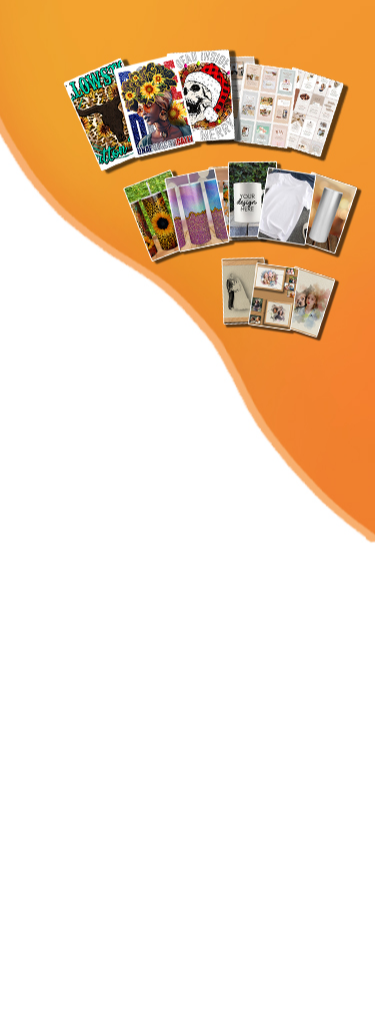
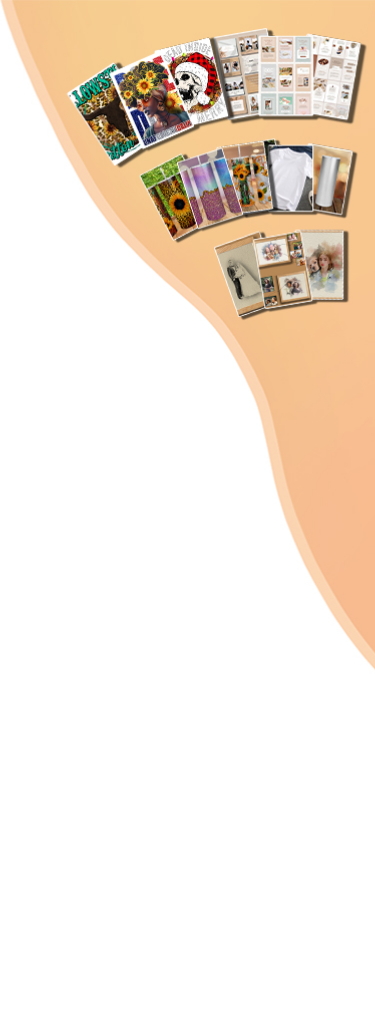
responsive form

diff --git a/src/components/common/RegisterForm.module.scss b/src/components/common/RegisterForm.module.scss
@@ -1,23 +1,38 @@
 @import "../../styles/mixin.scss";
 
-.form-container {
+.formContainer {
   display: flex;
   flex-direction: column;
   gap: 15px;
   width: 450px;
   text-align: center;
   color: var(--primary) !important;
-  transform: translateY(calc(50vh - 50% - 30px));
   margin-left: 15%;
 
-  .title {
-    font-size: 32px;
-    font-weight: 900;
-    color: var(--primary) !important;
+  .formHeader {
+    .avatar {
+      background-color: var(--primary);
+      width: 90px;
+      height: 90px;
+      min-width: 90px;
+      min-height: 90px;
+      border-radius: 50%;
+      margin: auto;
+      margin-bottom: 10px;
+      cursor: pointer;
+    }
+
+    .title {
+      font-size: 28px;
+      font-weight: 900;
+      color: var(--primary) !important;
+    }
   }
 
   input {
     color: var(--primary) !important;
+    background-color: var(--white);
+    border-radius: 10px;
     padding: 10px;
   }
 
@@ -36,7 +51,7 @@
     color: red;
   }
 
-  .submit-button {
+  .submitButton {
     color: white;
     background-color: var(--primary);
     border-radius: 10px;
@@ -60,7 +75,44 @@
 }
 
 @media screen and (max-width: 1700px) {
-  .form-container {
+  .formContainer {
     margin-left: 10%;
+  }
+}
+
+@include responsive(xl) {
+  .formContainer {
+    padding: 20px;
+    .formHeader {
+      .title {
+        font-size: 24px;
+      }
+    }
+  }
+}
+
+@include responsive(md) {
+  .formContainer {
+    .formHeader {
+      .avatar {
+        width: 70px;
+        height: 70px;
+        min-width: 70px;
+        min-height: 70px;
+      }
+      .title {
+        font-size: 20px;
+        background-color: var(--white);
+        display: inline-block;
+      }
+    }
+  }
+}
+
+@include responsive(sm) {
+  .formContainer {
+    margin-left: auto;
+    margin-right: auto;
+    width: 90%;
   }
 }

diff --git a/src/components/layout/LoginForm.module.scss b/src/components/layout/LoginForm.module.scss
@@ -1,4 +1,6 @@
-.form-container {
+@import "../../styles/mixin.scss";
+
+.formContainer {
   display: flex;
   flex-direction: column;
   gap: 15px;
@@ -9,7 +11,7 @@
   transform: translateY(calc(50vh - 50% - 50px));
 
   .title {
-    font-size: 32px;
+    font-size: 28px;
     font-weight: 900;
     color: var(--primary) !important;
   }
@@ -34,14 +36,13 @@
     color: red;
   }
 
-  .submit-button {
+  .submitButton {
     color: white;
     background-color: var(--primary);
     border-radius: 10px;
     height: 45px;
     font-size: 16px;
     font-weight: bold;
-    margin: 20px 0;
 
     &:hover {
       background-color: var(--primary);
@@ -55,5 +56,38 @@
       text-decoration: none;
       color: var(--primary);
     }
+  }
+}
+
+@media screen and (max-width: 1700px) {
+  .formContainer {
+    margin-left: 10%;
+  }
+}
+
+@include responsive(xl) {
+  .formContainer {
+    background-color: var(--white);
+    border-radius: 50px;
+    padding: 20px;
+    .title {
+      font-size: 24px;
+    }
+  }
+}
+
+@include responsive(md) {
+  .formContainer {
+    .title {
+      font-size: 20px;
+    }
+  }
+}
+
+@include responsive(sm) {
+  .formContainer {
+    margin-left: auto;
+    margin-right: auto;
+    width: 90%;
   }
 }

diff --git a/src/components/common/RegisterForm.tsx b/src/components/common/RegisterForm.tsx
@@ -64,12 +64,15 @@ const RegisterForm: React.FC<IRegisterForm> = ({ title }) => {
   return (
     <form
       onSubmit={formik.handleSubmit}
-      className={`${styles["form-container"]}`}
+      className={`${styles.formContainer}`}
       noValidate
       autoComplete="off"
       spellCheck="false"
     >
-      <Typography className={`${styles["title"]}`}>{title}</Typography>
+      <div className={`${styles.formHeader}`}>
+        <div className={`${styles.avatar}`}></div>
+        <Typography className={`${styles.title}`}>{title}</Typography>
+      </div>
       <TextField
         placeholder="User Name *"
         name="userName"
@@ -179,14 +182,11 @@ const RegisterForm: React.FC<IRegisterForm> = ({ title }) => {
         onChange={formik.handleChange}
       />
 
-      <Button
-        className={`primary-button ${styles["submit-button"]}`}
-        type="submit"
-      >
+      <Button className={`primary-button ${styles.submitButton}`} type="submit">
         {title === "Register" ? "Sign up" : "Update"}
       </Button>
 
-      <Typography className={`${styles["link"]}`}>
+      <Typography className={`${styles.link}`}>
         Already have an account?
         <Link to={"/login"}>
           <b> Sign In</b>

diff --git a/src/components/layout/LoginForm.tsx b/src/components/layout/LoginForm.tsx
@@ -39,12 +39,12 @@ const LoginForm: React.FC = () => {
   return (
     <form
       onSubmit={formik.handleSubmit}
-      className={`${styles["form-container"]}`}
+      className={`${styles.formContainer}`}
       noValidate
       autoComplete="off"
       spellCheck="false"
     >
-      <Typography className={`${styles["title"]}`}>Welcome Back!</Typography>
+      <Typography className={`${styles.title}`}>Welcome Back!</Typography>
 
       <TextField
         placeholder="Email *"
@@ -86,14 +86,11 @@ const LoginForm: React.FC = () => {
         value={formik.values.password}
         onChange={formik.handleChange}
       />
-      <Button
-        className={`primary-button ${styles["submit-button"]}`}
-        type="submit"
-      >
+      <Button className={`primary-button ${styles.submitButton}`} type="submit">
         Login
       </Button>
       <Divider />
-      <Typography className={`${styles["link"]}`}>
+      <Typography className={`${styles.link}`}>
         Don't have an account?
         <Link to={"/register"}>
           <b> Sign Up</b>

diff --git a/src/assets/images/index.ts b/src/assets/images/index.ts
@@ -1,9 +1,9 @@
+export { default as BackgroundMobile } from "./background-mobile.png";
+export { default as Background } from "./background.png";
 export { default as CategoryCard1 } from "./card-category01.png";
 export { default as CategoryCard2 } from "./card-category02.png";
 export { default as CategoryCard3 } from "./card-category03.png";
 export { default as CategoryCard4 } from "./card-category04.png";
 export { default as CategoryCard5 } from "./card-category05.png";
-export { default as Background } from "./background.png";
-export { default as BareBackground } from "./bare-background.png";
-export { default as BackgroundMobile } from "./background-mobile.png";
-export { default as BareBackgroundMobile } from "./bare-background-mobile.png";
+export { default as NoneImageBgMobile } from "./none-image-bg-mobile.png";
+export { default as NoneImageBg } from "./none-image-bg.png";

diff --git a/src/layout/component/Footer.tsx b/src/layout/component/Footer.tsx
@@ -3,17 +3,19 @@ import InstagramIcon from "@assets/icons/instagram-icon.svg";
 import FacebookIcon from "@assets/icons/facebook-icon.svg";
 import PinterestIcon from "@assets/icons/pinterest-icon.svg";
 import TwitterIcon from "@assets/icons/twitter-icon.svg";
+import { useLocation } from "react-router-dom";
 
 interface IFooter {
   layout?: "form";
 }
 
 const Footer: React.FC<IFooter> = ({ layout }) => {
+  const { pathname } = useLocation();
   return (
     <div
-      className={`${styles["footer"]} ${
-        layout ? styles["form-footer"] : styles["normal-footer"]
-      }`}
+      className={`${styles.footer} ${
+        layout ? styles.formFooter : styles.normalFooter
+      } ${pathname === "/login" ? styles.absolute : ""}`}
     >
       <img src={InstagramIcon} alt={InstagramIcon} />
       <img src={FacebookIcon} alt={FacebookIcon} />

diff --git a/src/layout/FormLayout.tsx b/src/layout/FormLayout.tsx
@@ -3,8 +3,8 @@ import styles from "./FormLayout.module.scss";
 import {
   Background,
   BackgroundMobile,
-  BareBackground,
-  BareBackgroundMobile,
+  NoneImageBg,
+  NoneImageBgMobile,
 } from "@assets/images";
 import { useLocation } from "react-router-dom";
 import { useEffect, useState } from "react";
@@ -32,8 +32,8 @@ const FormLayout: React.FC<any> = ({ layout, children }) => {
         src={
           pathname === "/about-us"
             ? width < 1024
-              ? BareBackgroundMobile
-              : BareBackground
+              ? NoneImageBgMobile
+              : NoneImageBg
             : width < 1024
             ? BackgroundMobile
             : Background

diff --git a/src/layout/component/Footer.module.scss b/src/layout/component/Footer.module.scss
@@ -1,3 +1,5 @@
+@import "../../styles/mixin.scss";
+
 .footer {
   padding: 10px;
   img {
@@ -6,14 +8,26 @@
   }
 }
 
-.form-footer {
+.formFooter {
   position: absolute;
   bottom: 0;
   right: 0;
 }
 
-.normal-footer {
+.normalFooter {
   margin-top: 30px;
   text-align: right;
   background-color: var(--primary);
+}
+
+@include responsive(md) {
+  .formFooter {
+    position: relative;
+    display: flex;
+    justify-content: flex-end;
+
+    &.absolute {
+      position: absolute;
+    }
+  }
 }

diff --git a/vite.config.ts b/vite.config.ts
@@ -3,6 +3,9 @@ import react from "@vitejs/plugin-react";
 import path from "path";
 
 export default defineConfig({
+  server: {
+    port: 3000,
+  },
   plugins: [react()],
   resolve: {
     alias: {

diff --git a/src/layout/component/Header.tsx b/src/layout/component/Header.tsx
@@ -16,7 +16,7 @@ interface IHeader {
   layout?: string;
 }
 
-const IS_LOGIN = true;
+const IS_LOGIN = false;
 
 const NAVIGATION_LIST: INavigationItem[] = [
   {
